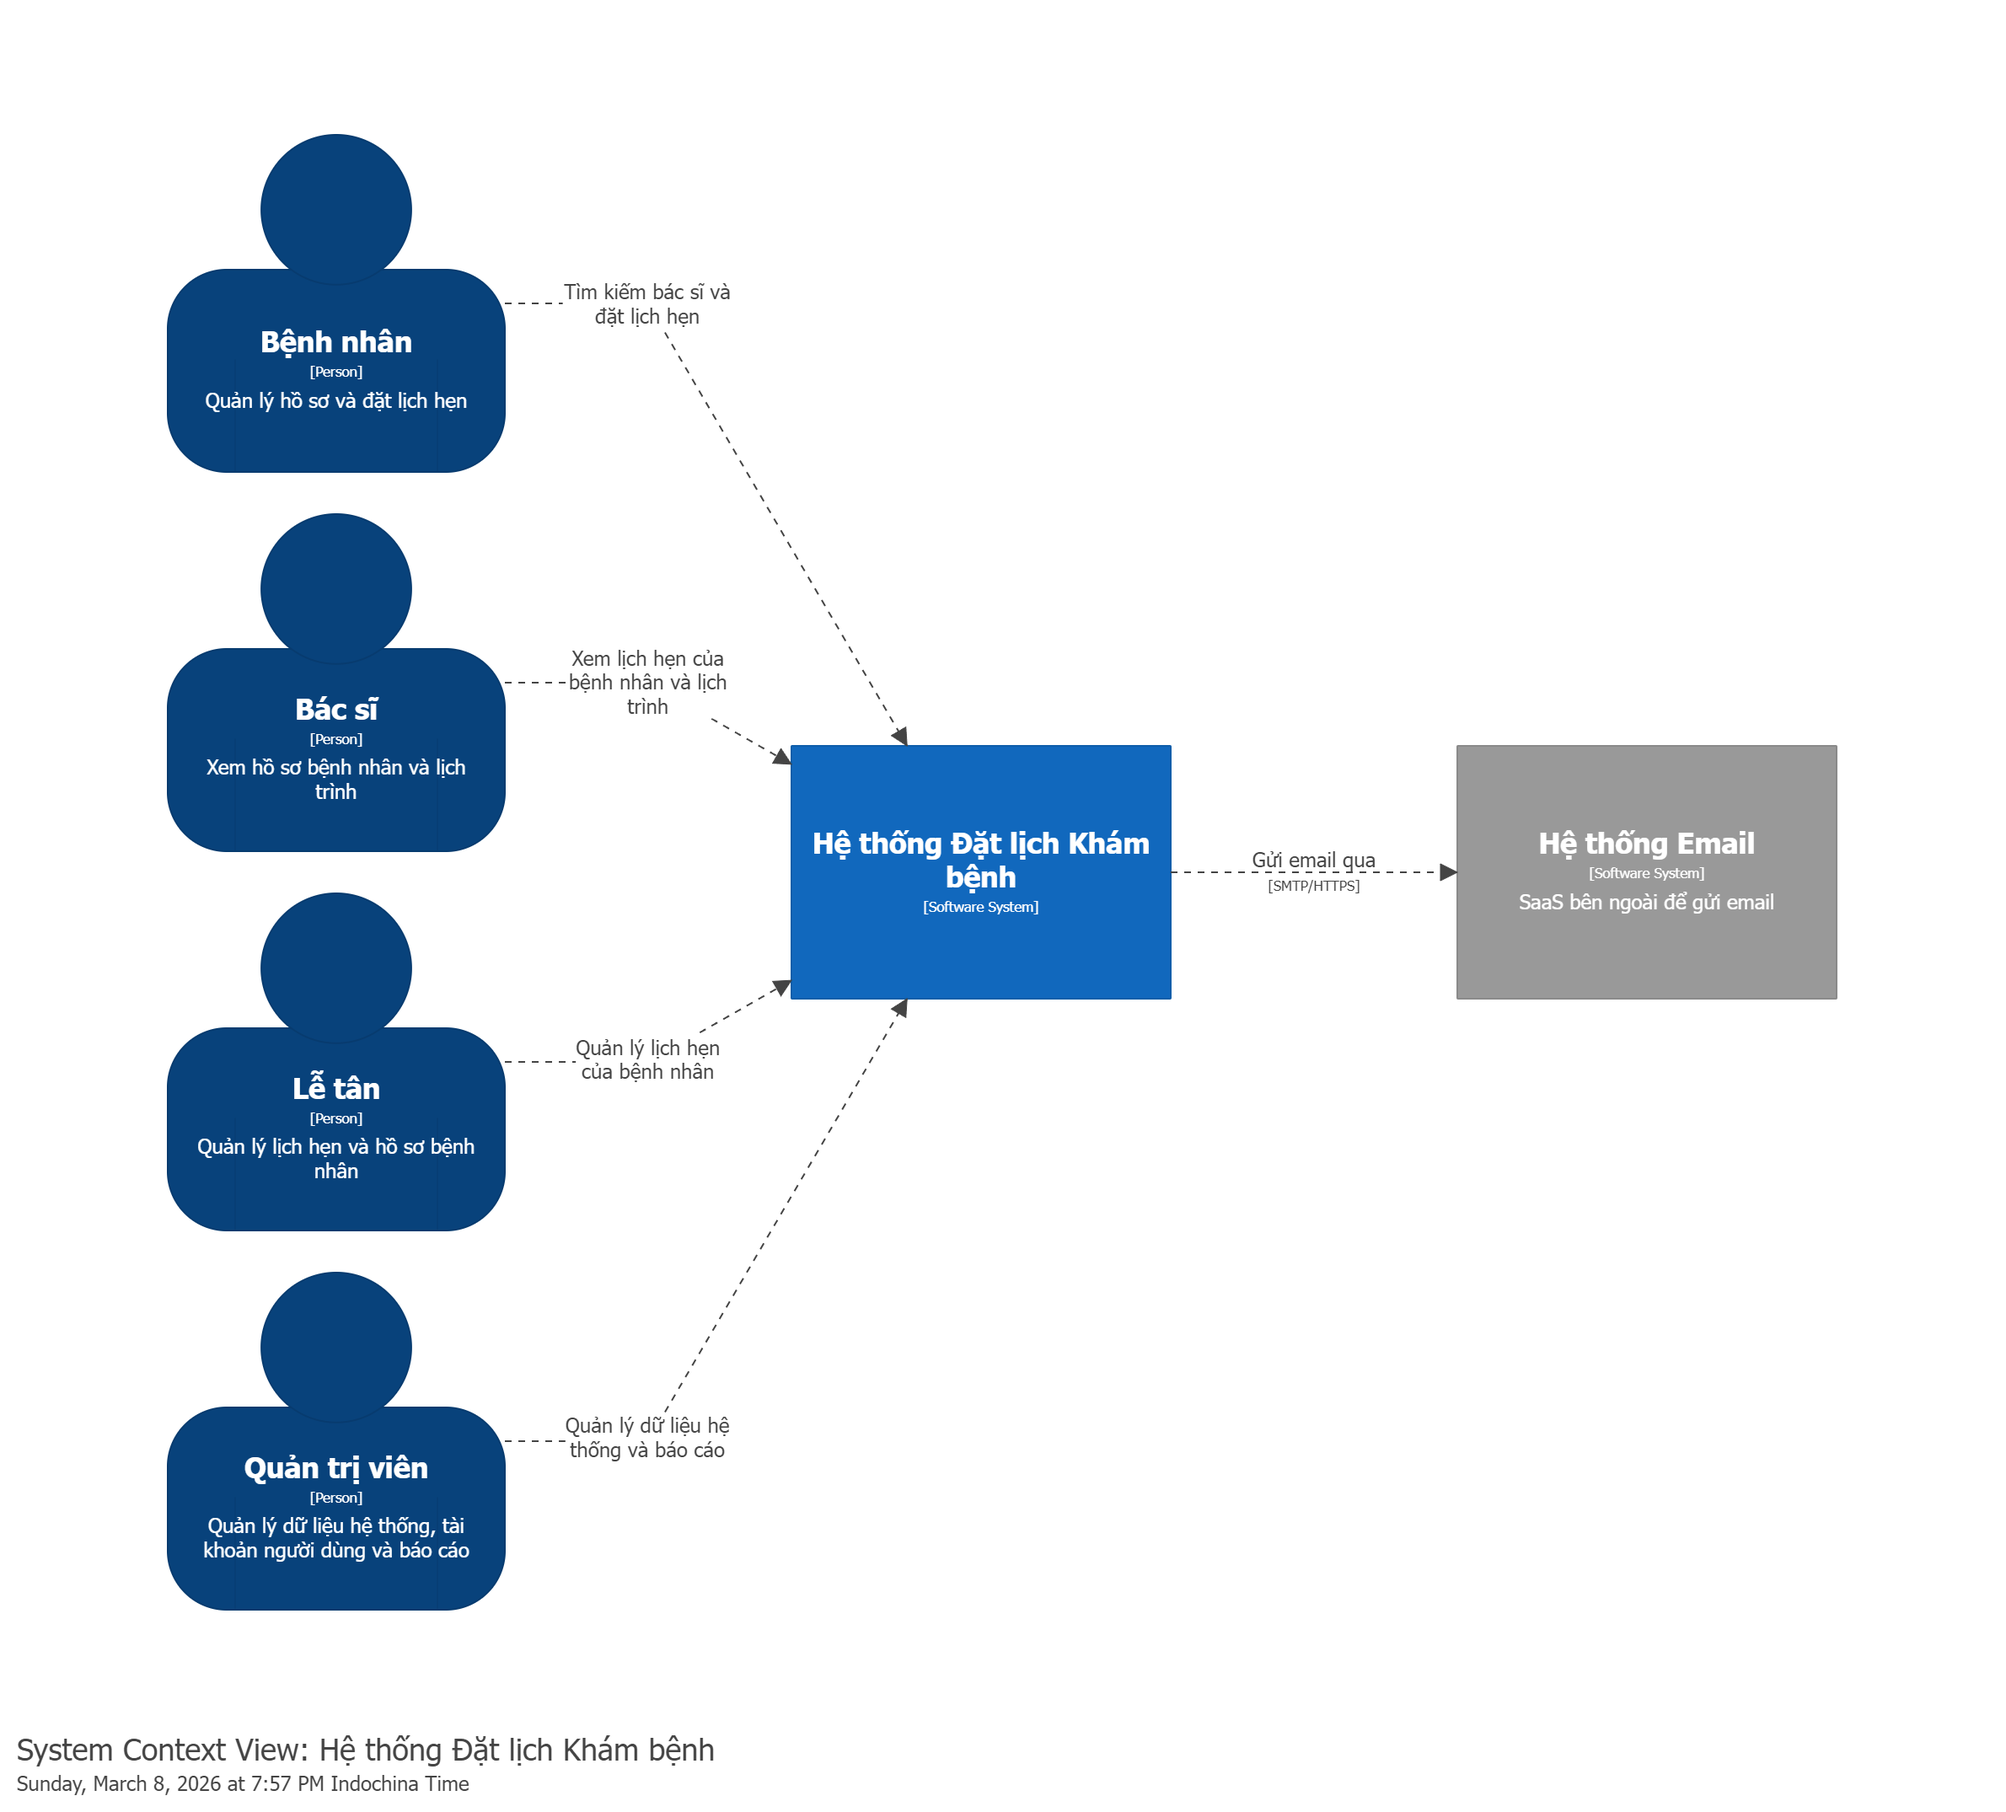
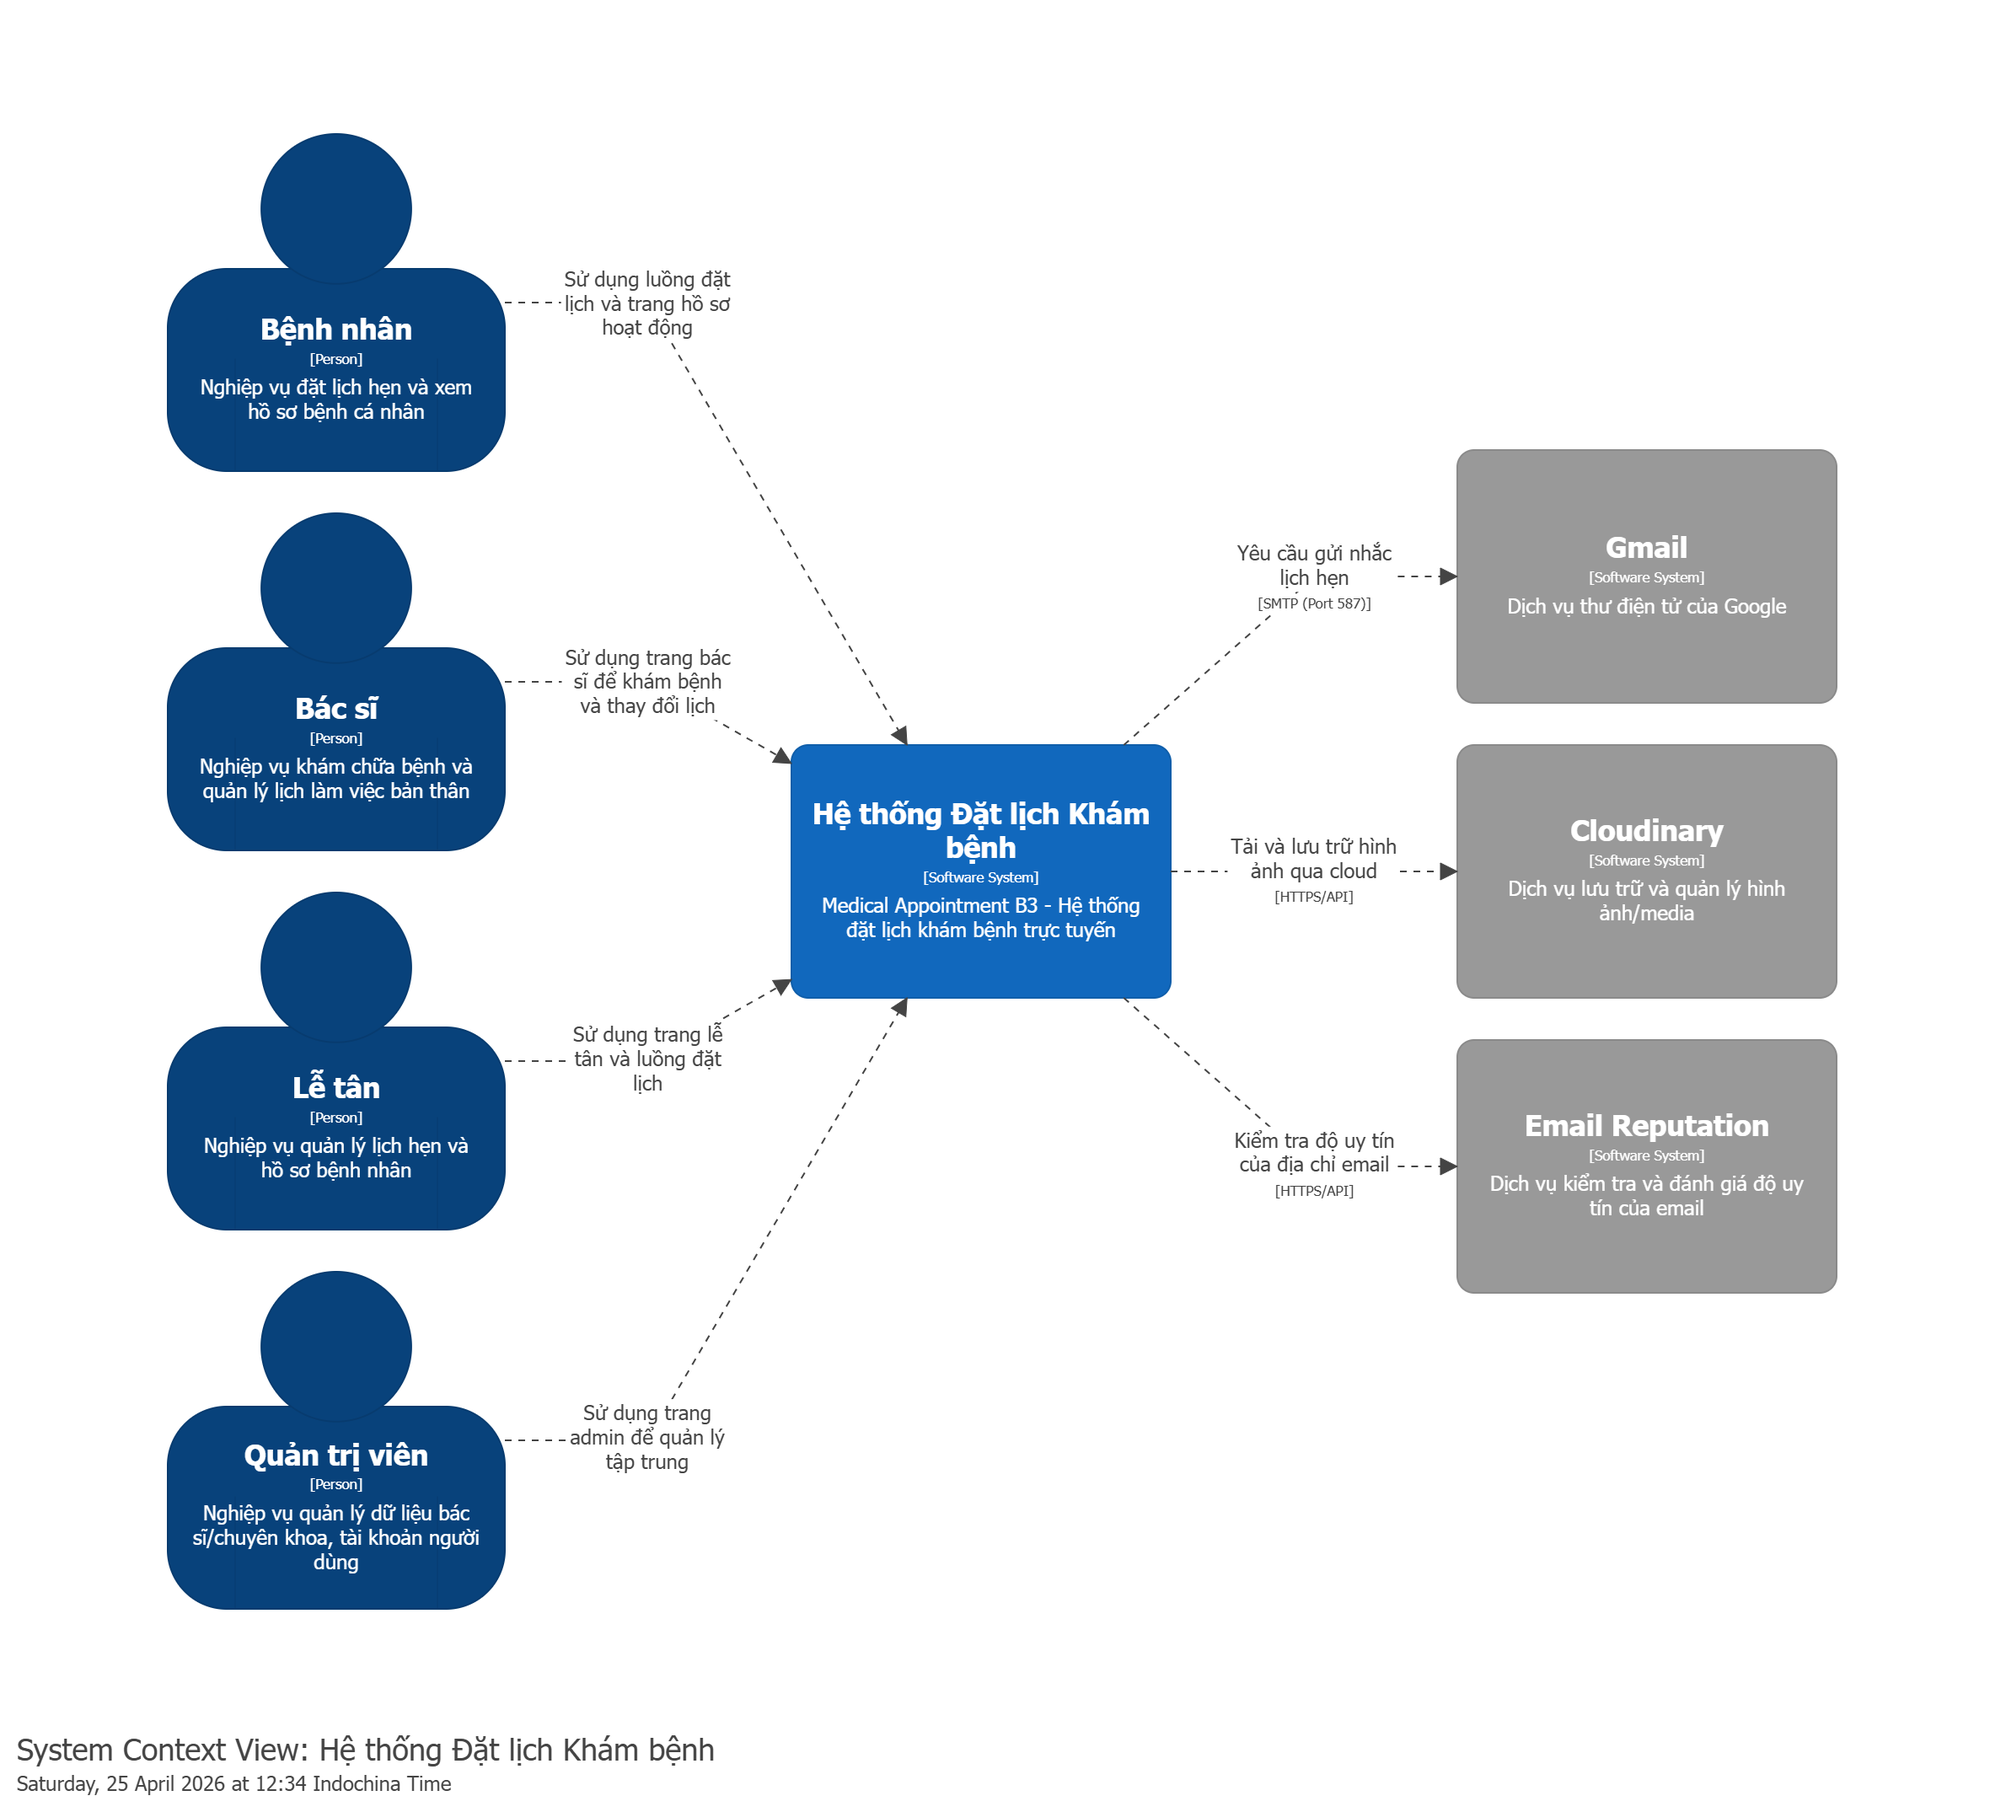
docs: add final documentation for project

diff --git a/weekly-reports/week-10.md b/weekly-reports/week-10.md
@@ -11,9 +11,9 @@
 
 | Thành viên         | MSSV       | Công việc | Link Commit/PR | 
 |--------------------|------------|-----------|----------------| 
-| Văn Trung Thành    | 2351050164 | Hoàn tất báo cáo tổng kết và tổ chức họp nghiệm thu | [abc123](link) | 
-| Nguyễn Thanh Phong | 2351050133 | Đang làm  | [def456](link) | 
-| Trương Hưng Phát   | 2351010154 | Đang làm  | [ghi789](link) | 
+| Văn Trung Thành    | 2351050164 | Hoàn tất báo cáo tổng kết và tổ chức họp nghiệm thu | [996199e](https://github.com/JuniorThanhBQ/Medical-Appointment-B3-8/commit/996199ea12f33efdf410d364a65f0cf0aafd9093) | 
+| Nguyễn Thanh Phong | 2351050133 | Hoàn tất refactor back-end và fix các bug còn lại  | [52f31b7](https://github.com/JuniorThanhBQ/Medical-Appointment-B3-8/commit/52f31b78918b47a447bb1f47685994055d336798) | 
+| Trương Hưng Phát   | 2351010154 | Hoàn tất refactor front-end và fix các bug còn lại  | [8e07cc2](https://github.com/JuniorThanhBQ/Medical-Appointment-B3-8/commit/8e07cc2c6e0941da526c0b58b976f49a05b8e2fa) | 
 
 --- 
 
@@ -26,7 +26,7 @@
 | Backend API        | Đã hoàn thành | 100% | 
 | Frontend UI        | Đã hoàn thành | 100% | 
 | Docker             | Đã hoàn thành | 100% | 
-| Testing            | Không hoàn thành | 80%  | 
+| Testing            | Chưa hoàn thành | 80%  | 
 
 **Tổng tiến độ: 96%**
 
@@ -49,5 +49,5 @@
 
 --- 
 
-*Ngày nộp: 26/04/2026*   
+*Ngày nộp: 25/04/2026*   
 *Xác nhận của Nhóm trưởng: Văn Trung Thành*

diff --git a/docs/adrs/ADR-007-web-server-deploy-choice.md b/docs/adrs/ADR-007-web-server-deploy-choice.md
@@ -1,4 +1,4 @@
-# ADR-008: Triển khai web server qua Ngrok tunnel thay vì VPS/PAAS
+# ADR-007: Triển khai web server qua Ngrok tunnel thay vì VPS/PAAS
 
 ## Trạng thái
 Accepted
